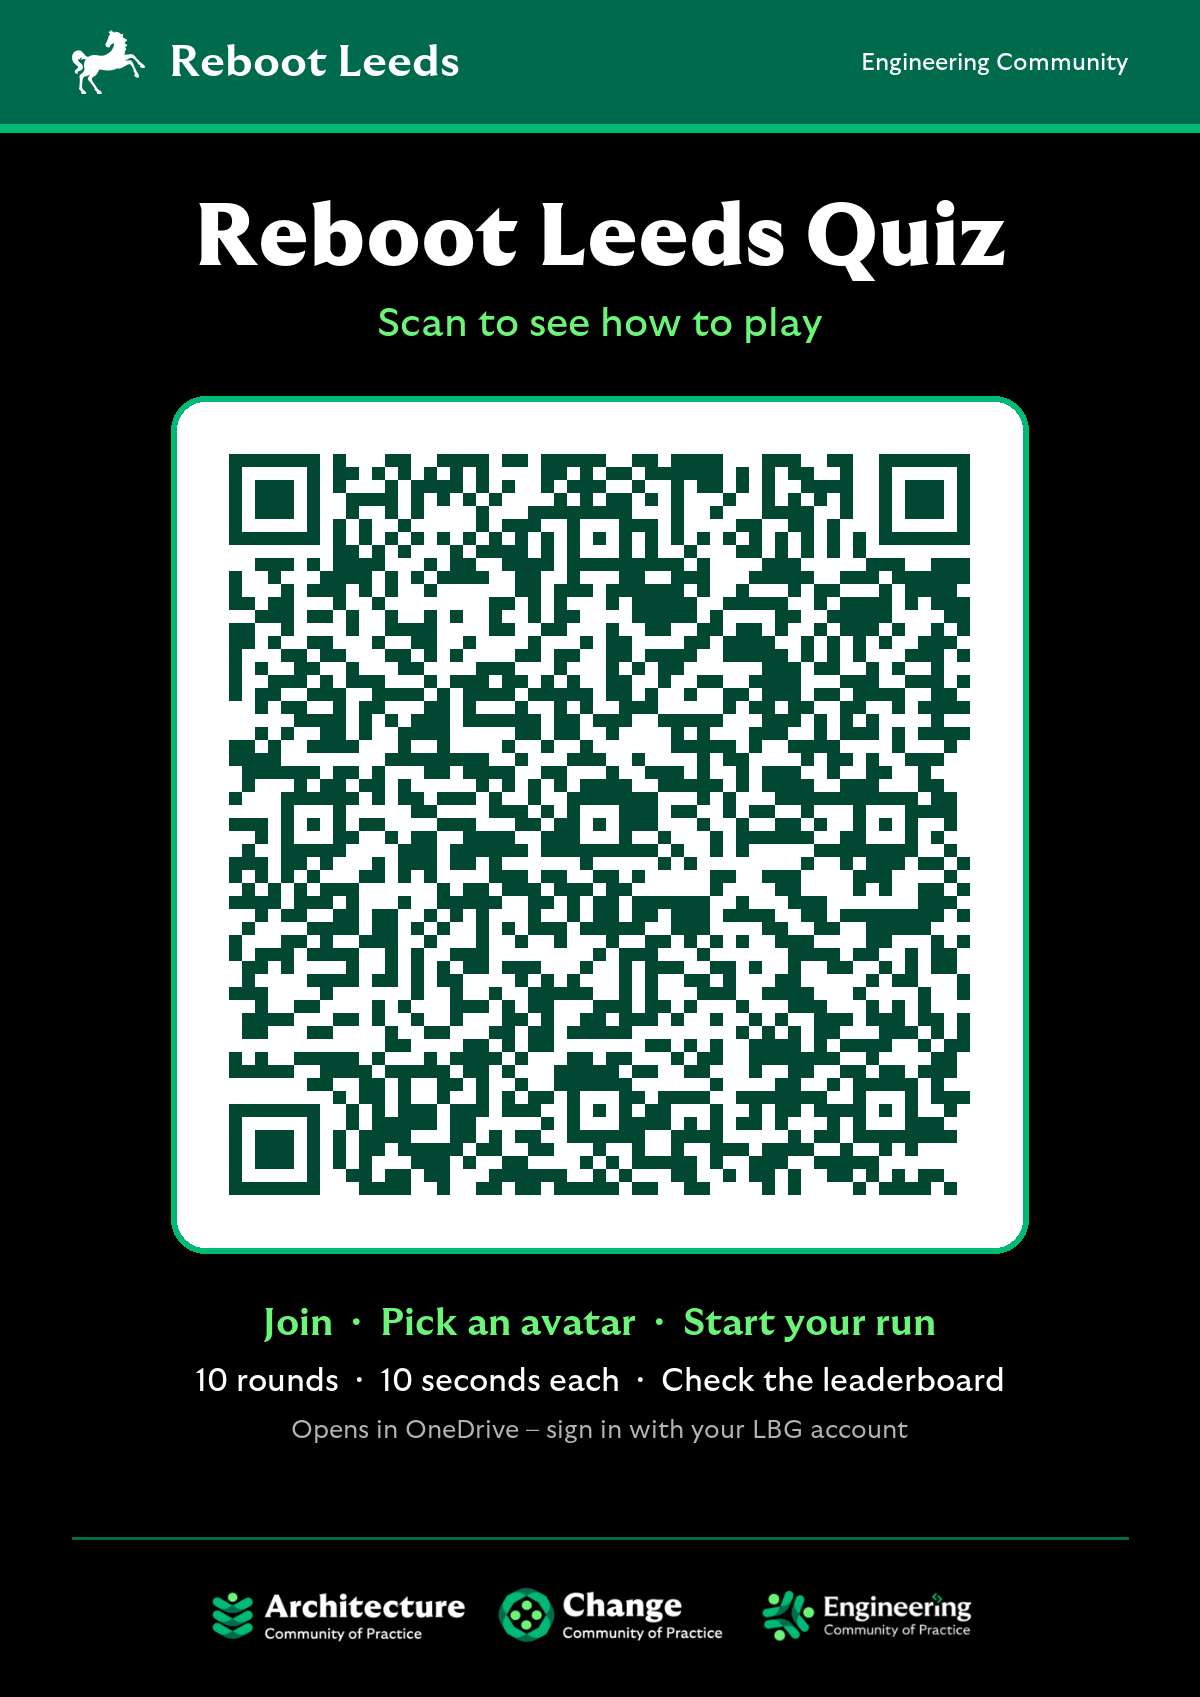
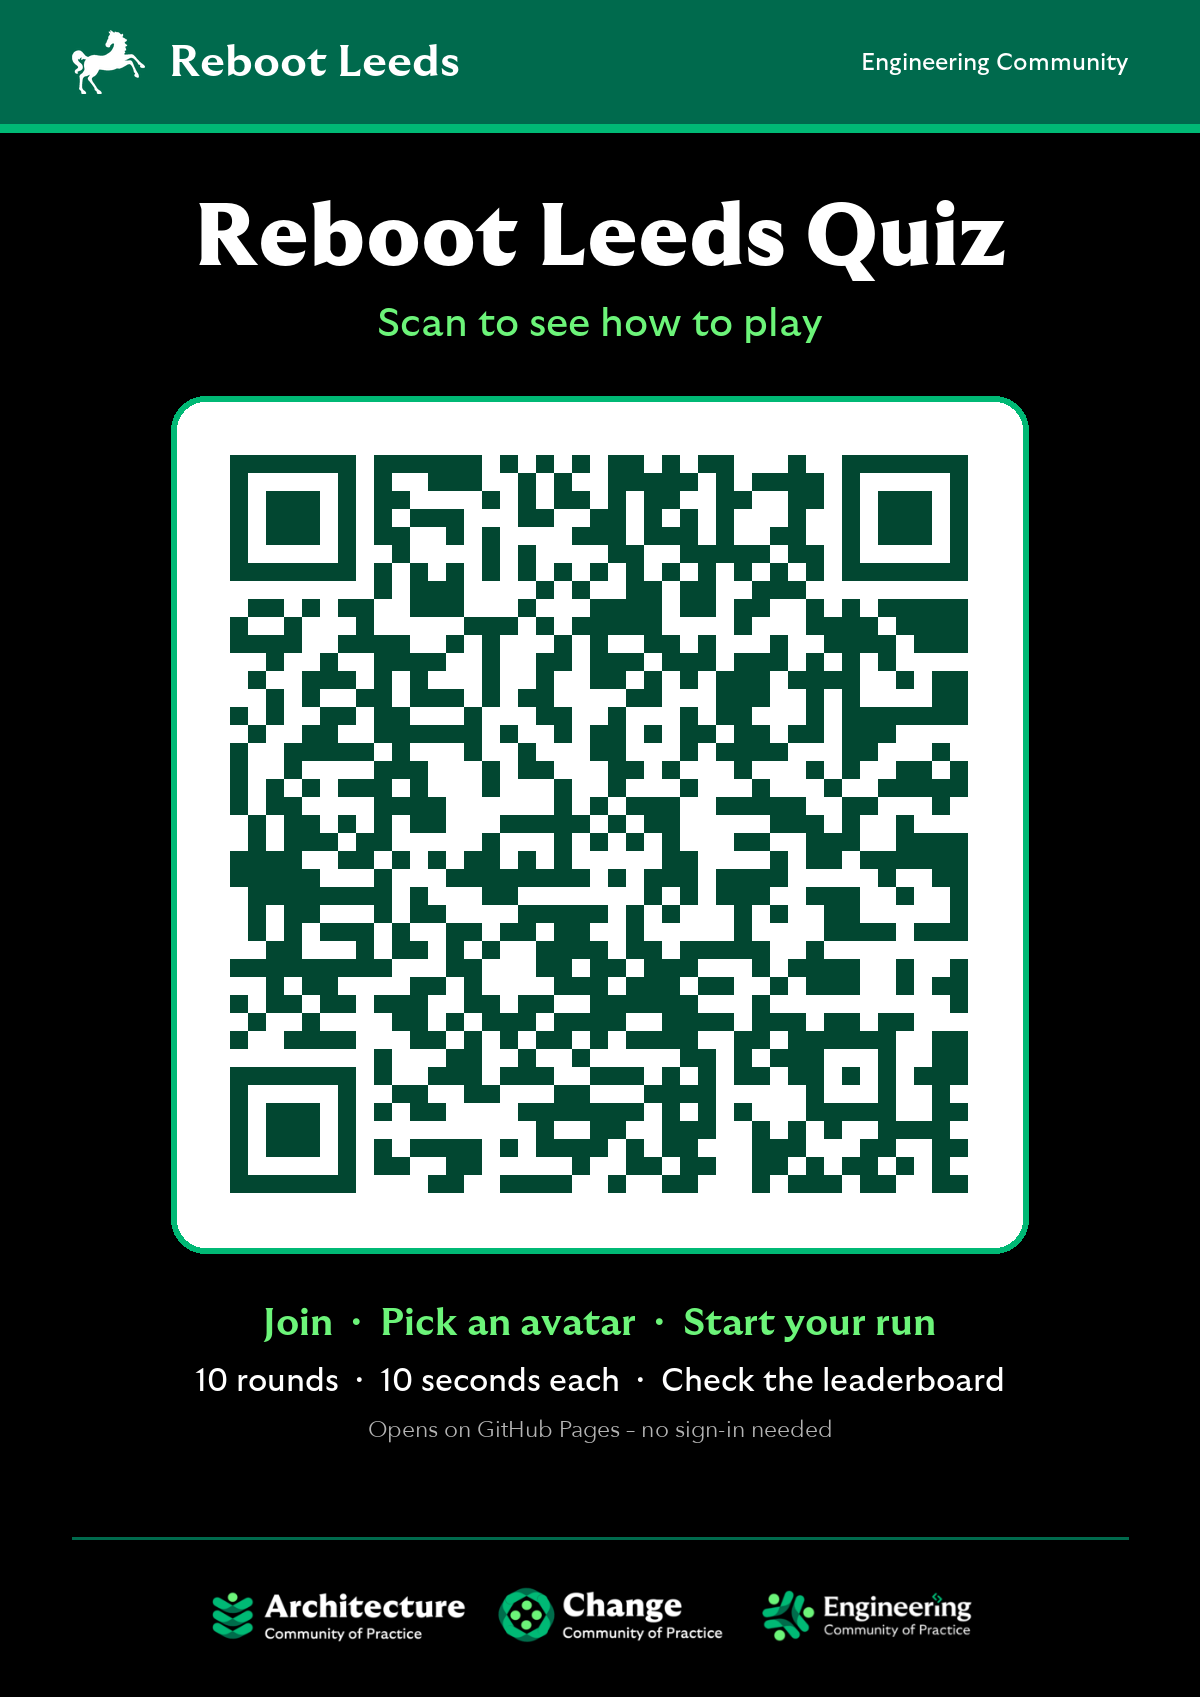
Host how-to-play guide on GitHub Pages and point QR code at it
Add .nojekyll and reboot-quiz-guide/index.html so the gif is served at
https://aastom.github.io/rails-simple-item-list/reboot-quiz-guide/ from
main. Regenerate how-to-play-qr.png and the poster QR to encode that URL
and update the poster caption (no sign-in needed).

Changed region(s): [[0.185, 0.2499, 0.8325, 0.7183], [0.4625, 0.8433, 0.4933, 0.8745]]

diff --git a/reboot-quiz-guide/index.html b/reboot-quiz-guide/index.html
@@ -1,0 +1,36 @@
+<!doctype html>
+<html lang="en">
+<head>
+  <meta charset="utf-8">
+  <meta name="viewport" content="width=device-width, initial-scale=1">
+  <title>Reboot Leeds Quiz – How to play</title>
+  <style>
+    :root { color-scheme: dark; }
+    body {
+      margin: 0;
+      min-height: 100vh;
+      display: flex;
+      flex-direction: column;
+      align-items: center;
+      justify-content: center;
+      gap: 16px;
+      padding: 16px;
+      box-sizing: border-box;
+      background: #000;
+      color: #fff;
+      font-family: -apple-system, BlinkMacSystemFont, "Segoe UI", Roboto, Helvetica, Arial, sans-serif;
+      text-align: center;
+    }
+    h1 { margin: 0; font-size: 1.5rem; }
+    p { margin: 0; color: #4ade80; }
+    img { max-width: 100%; height: auto; border-radius: 12px; }
+    small { color: #9ca3af; }
+  </style>
+</head>
+<body>
+  <h1>Reboot Leeds Quiz</h1>
+  <p>Join · Pick an avatar · Start your run</p>
+  <img src="how-to-play.gif" alt="Animated walkthrough of how to play the Reboot Leeds Quiz" width="1800" height="1297">
+  <small>10 rounds · 10 seconds each · Check the leaderboard</small>
+</body>
+</html>
